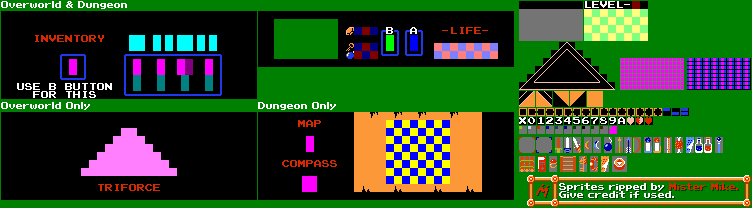
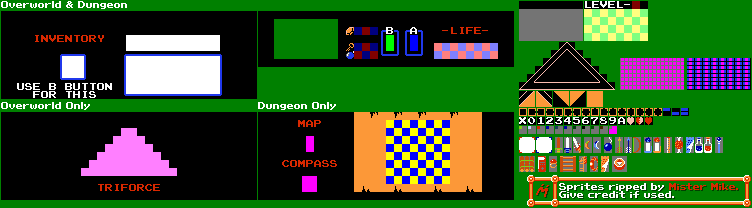
item selection menu finished

Changed region(s): [[0.1529, 0.1442, 0.3059, 0.4615], [0.0612, 0.2596, 0.1223, 0.375], [0.6729, 0.6635, 0.734, 0.75]]

diff --git a/GameStateMenu/ItemSelectionMenu.cs b/GameStateMenu/ItemSelectionMenu.cs
@@ -9,22 +9,26 @@ using System.Linq;
 using System.Xml.Linq;
 using SprintZero1.InventoryFiles;
 using SprintZero1.XMLParsers;
+using System.Diagnostics;
 
 namespace SprintZero1.GameStateMenu
 {
     internal class ItemSelectionMenu : GameStateAbstract
     {
         private double elapsedTime = 0;
-        private double interval = 0.5; // 0.5 seconds
+        private double interval = 0.3; // 0.3 seconds
         private bool toggle = false; // This will toggle between true and false
         private const int item_width = 16;
         private const int item_height = 16;
-        private const int PADDING = 10;
+        private const int WidthPADDING = 4;
+        private const int HeightPADDING = 2;
         private const float SCALE = 1f;
         private const float ROTATION = 0f;
         private const float LAYER_DEPTH = 0.01f;
-        private const float OVER_LAYER_DEPTH = 0.02f;
-        private const int ROWS = 2;
+        private const float OVER_LAYER_DEPTH = 0.1f;
+        private const int BACKGROUNDHEIGH = 88;
+        private const int INTERVAL_BETWEEN_BACKGROUND = 30;
+        private const int ROWS = 1;
         private readonly PlayerInventory _playerInventory;
         private  Rectangle ChooseRectFir;
         private  Rectangle ChooseRectSec;
@@ -32,14 +36,18 @@ namespace SprintZero1.GameStateMenu
         private Dictionary<EquipmentItem, Tuple<Rectangle, Vector2>> equipmentData;
         //private readonly ICombatEntity _player; //not sure whether need _player or not
         private  Texture2D largeTexture;
-        private  Texture2D itemChooseScrene;
+        private  Texture2D itemChooseScreen;
         private List<EquipmentItem> _playerEquipment;
         private EquipmentItem currentWeapon;
+        private Vector2 currentWeaponPosition =  new Vector2(63, 48);
+        private Rectangle currectWeaponRec;
         private Vector2 ChooseRecPosition;
+        private Rectangle topBackGround;
+        private Rectangle botBackGround;
 
         private void LoadItemData()
         {
-
+            equipmentData = new Dictionary<EquipmentItem, Tuple<Rectangle, Vector2>>();
             XDocument doc = XDocument.Load("ItemData.xml");
             var itemDataElement = doc.Element("ItemData");
             XDocTools _xDocTools = new XDocTools();
@@ -47,50 +55,66 @@ namespace SprintZero1.GameStateMenu
             ChooseRectFir = _xDocTools.CreateRectangle(ChooseRecFirRectElement);
             XElement ChooseRecSecRectElement = itemDataElement.Element("ChooseRecSecSprite");
             ChooseRectSec = _xDocTools.CreateRectangle(ChooseRecSecRectElement);
+            XElement topBackGroundElement = itemDataElement.Element("BackGroundFirst");
+            topBackGround = _xDocTools.CreateRectangle(topBackGroundElement);
+            XElement botBackGroundElement = itemDataElement.Element("BackGroundSecond");
+            botBackGround = _xDocTools.CreateRectangle(botBackGroundElement);
 
-            int itemCount = equipmentData.Count;
-            int itemsPerRow = (int)Math.Ceiling(itemCount / (double)ROWS);
-            int totalWidth = itemsPerRow * (item_width + PADDING) - PADDING;
-            int totalHeight = ROWS * (item_height + PADDING) - PADDING;
+            int boxX = 120;
+            int boxY = 47;
+            int boxWidth = 90;
+            int boxHeight = 33;
 
-            int startX = (WIDTH - totalWidth) / 2;
-            int startY = (HEIGHT - totalHeight) / 2;
-
+            int itemsPerRow = 4;
+            int startX = boxX + (boxWidth - (itemsPerRow * item_width + (itemsPerRow - 1) * HeightPADDING)) / 2;
             int x = startX;
-            int y = startY;
+            int y = boxY + (boxHeight / ROWS - item_height) / 2;
 
             int count = 0;
-
             foreach (XElement itemElement in itemDataElement.Elements("Item"))
             {
+                Debug.WriteLine(itemElement);
                 Rectangle itemRec = _xDocTools.CreateRectangle(itemElement);
                 EquipmentItem equipmentItem = _xDocTools.ParseAttributeAsEquipmentItem(itemElement, "name");
 
-                Vector2 position = new Vector2(x, y);
-                equipmentData[equipmentItem] = new Tuple<Rectangle, Vector2>(itemRec, position);
+                Debug.WriteLine(equipmentItem);
 
-                x += item_width + PADDING;
+                if (count > 0)
+                {
+                    x += item_width + WidthPADDING;
+                }
                 count++;
 
-                if (count == itemsPerRow)
+                Vector2 position = new Vector2(x, y);
+                equipmentData.Add(equipmentItem, new Tuple<Rectangle, Vector2>(itemRec, position));
+            }
+            foreach (XElement betterItemElement in itemDataElement.Elements("BetterItem"))
+            {
+                EquipmentItem betterEquipmentItem = _xDocTools.ParseAttributeAsEquipmentItem(betterItemElement, "name");
+
+                string baseItemName = betterEquipmentItem.ToString().Replace("Better", "");
+
+                EquipmentItem baseEquipmentItem = equipmentData.Keys
+                    .SingleOrDefault(item => item.ToString() == baseItemName);
+
+                if (!baseEquipmentItem.Equals(default(EquipmentItem)) && !baseEquipmentItem.Equals(EquipmentItem.WoodenSword))
                 {
-                    count = 0;
-                    x = startX;
-                    y += item_height + PADDING;
+                    Rectangle betterItemRec = _xDocTools.CreateRectangle(betterItemElement);
+                    Vector2 basePosition = equipmentData[baseEquipmentItem].Item2;
+                    equipmentData.Add(betterEquipmentItem, new Tuple<Rectangle, Vector2>(betterItemRec, basePosition));
                 }
             }
-        }
 
-        public ItemSelectionMenu(Game1 game, PlayerInventory playerInventory):base(game)
+
+        }
+        public ItemSelectionMenu(Game1 game, PlayerInventory playerInventory) :base(game)
         {
-            
-            _overlay.SetData(new[] { Color.Blue });
+            _overlay.SetData(new[] { Color.Black });
             _playerInventory = playerInventory;
             largeTexture = Texture2DManager.GetItemSpriteSheet();
-            itemChooseScrene = Texture2DManager.GetPauseScreneSheet();
+            itemChooseScreen = Texture2DManager.GetPauseScreenSheet();
             _font = Texture2DManager.GetSpriteFont("PauseSetting");
             #region Equipment Data Initialization
-            equipmentData = new Dictionary<EquipmentItem, Tuple<Rectangle, Vector2>>();
             LoadItemData();
             #endregion
             _playerEquipment = _playerInventory.GetEquipmentList();
@@ -100,11 +124,21 @@ namespace SprintZero1.GameStateMenu
 
         }
 
+
         public override void Update(GameTime gameTime)
         {
             SynchronizeInventory();
             updateChooseRecPosition();
-            updateChooseRecPosition();
+            SetCurrectWeaponRec();
+            AnimateChooseRec(gameTime);
+        }
+
+        private void SetCurrectWeaponRec()
+        {
+            if (equipmentData.TryGetValue(currentWeapon, out Tuple<Rectangle, Vector2> equipmentInfo))
+            {
+                currectWeaponRec = equipmentInfo.Item1;
+            }
         }
 
         private void SynchronizeInventory()
@@ -146,14 +180,19 @@ namespace SprintZero1.GameStateMenu
             }
             else
             {
-                throw new KeyNotFoundException("The currentWeapon does not exist in the equipment data.");
+                var availableKeys = string.Join(", ", equipmentData.Keys.Select(k => k.ToString()));
+                System.Diagnostics.Debug.WriteLine($"Available keys: {availableKeys}");
+                System.Diagnostics.Debug.WriteLine($"Current weapon: {currentWeapon}");
+                throw new KeyNotFoundException($"The currentWeapon '{currentWeapon}' does not exist in the equipment data. Available keys: {availableKeys}");
             }
         }
 
 
         public override void Draw(SpriteBatch spriteBatch)
         {
-           // spriteBatch.Draw(_overlay, new Rectangle(0, 0, WIDTH, HEIGHT), null, Color.White, 0f, Vector2.Zero, SpriteEffects.None, OVER_LAYER_DEPTH);
+            spriteBatch.Draw(_overlay, new Rectangle(0, 0, WIDTH, HEIGHT), null, Color.White, 0f, Vector2.Zero, SpriteEffects.None, OVER_LAYER_DEPTH);
+            spriteBatch.Draw(largeTexture, currentWeaponPosition, currectWeaponRec, Color.White, 0, Vector2.Zero, SCALE, SpriteEffects.None, 0f);
+            DrawbackGround(spriteBatch);
             DrawDifferentItem(spriteBatch);
             DrawChooseRec(spriteBatch);
 
@@ -161,7 +200,30 @@ namespace SprintZero1.GameStateMenu
 
         private void DrawChooseRec(SpriteBatch spriteBatch)
         {
-            spriteBatch.Draw(itemChooseScrene, ChooseRecPosition, ChooseRect, Color.White, ROTATION, Vector2.Zero, SCALE, SpriteEffects.None, 0f);
+            Debug.WriteLine(ChooseRecPosition);
+            spriteBatch.Draw(itemChooseScreen, ChooseRecPosition, ChooseRect, Color.White, 0, Vector2.Zero, SCALE, SpriteEffects.None, 0f);
+        }
+        private void DrawbackGround(SpriteBatch spriteBatch)
+        {
+            spriteBatch.Draw(
+                itemChooseScreen,
+                destinationRectangle:  new Rectangle(0, 0, WIDTH, BACKGROUNDHEIGH),
+                sourceRectangle: topBackGround,
+                color: Color.White,
+                rotation: 0f,
+                origin: Vector2.Zero,
+                effects: SpriteEffects.None,
+                layerDepth: 0.05f);
+
+            spriteBatch.Draw(
+                itemChooseScreen,
+                destinationRectangle: new Rectangle(0, BACKGROUNDHEIGH + INTERVAL_BETWEEN_BACKGROUND, WIDTH, BACKGROUNDHEIGH),
+                sourceRectangle: botBackGround,
+                color: Color.White,
+                rotation: 0f,
+                origin: Vector2.Zero,
+                effects: SpriteEffects.None,
+                layerDepth: 0.05f);
         }
 
         private void DrawDifferentItem(SpriteBatch spriteBatch)
@@ -180,7 +242,8 @@ namespace SprintZero1.GameStateMenu
                 }
 
             }
-            
+
+
         }
 
     }

diff --git a/Managers/Texture2DManager.cs b/Managers/Texture2DManager.cs
@@ -17,7 +17,7 @@ namespace SprintZero1.Managers
         private static Texture2D _level1FloorSpriteSheet;
         private static Texture2D _itemSpriteSheet;
         private static Texture2D _weaponSpriteSheet;
-        private static Texture2D _PauseScrenSheet;
+        private static Texture2D _PauseScreenSheet;
         /* for update */
         private static Dictionary<string, SpriteFont> spriteFontMap = new Dictionary<string, SpriteFont>();
 
@@ -34,7 +34,7 @@ namespace SprintZero1.Managers
             _level1FloorSpriteSheet = contentManager.Load<Texture2D>("level1");
             _weaponSpriteSheet = contentManager.Load<Texture2D>("LinkSheet");
             _itemSpriteSheet = contentManager.Load<Texture2D>("itemSpriteSheet1");
-            _PauseScrenSheet = contentManager.Load<Texture2D>("NES_-_The_Legend_of_Zelda_-_HUD__Pause_Screen1");
+            _PauseScreenSheet = contentManager.Load<Texture2D>("NES_-_The_Legend_of_Zelda_-_HUD__Pause_Screen1");
         }
 
         public static void LoadSpriteFonts(ContentManager contentManager)
@@ -84,7 +84,7 @@ namespace SprintZero1.Managers
         /// Get the PauseScren sheet 
         /// </summary>
         /// <returns></returns>
-        public static Texture2D GetPauseScreneSheet() { return _PauseScrenSheet; }
+        public static Texture2D GetPauseScreenSheet() { return _PauseScreenSheet; }
 
         public static SpriteFont GetSpriteFont(string spriteFontName)
         {

diff --git a/Factories/EnemySpriteFactory.cs b/Factories/EnemySpriteFactory.cs
@@ -55,13 +55,13 @@ namespace SprintZero1.Factories
                             { Direction.East, new List<Rectangle> { new Rectangle(257, 11, 13, 16), new Rectangle(275, 11, 14, 16) } }
                         }
 
-                        "dungeon_goriya", new Dictionary<Direction, List<Rectangle>>
+                        /*"dungeon_goriya", new Dictionary<Direction, List<Rectangle>>
                         {
                             { Direction.North, new List<Rectangle> { new Rectangle(241, 11, 13, 16), new Rectangle(308, 11, 13, 16) } },
                             { Direction.South, new List<Rectangle> { new Rectangle(224, 11, 13, 16), new Rectangle(292, 11, 13, 16) } },
                             { Direction.West, new List<Rectangle> { new Rectangle(257, 11, 13, 16), new Rectangle(275, 11, 14, 16) } },
                             { Direction.East, new List<Rectangle> { new Rectangle(257, 11, 13, 16), new Rectangle(275, 11, 14, 16) } }
-                        }
+                        }*/
                     }
                     
                 };

diff --git a/GameStateMenu/GameStateAbstract.cs b/GameStateMenu/GameStateAbstract.cs
@@ -13,13 +13,15 @@ namespace SprintZero1.GameStateMenu
         protected SpriteFont _font;
         protected Texture2D _overlay;
         protected GraphicsDeviceManager graphics;
-        protected const int WIDTH = 256;
-        protected const int HEIGHT = 256;
+        protected const int WIDTH = 255;
+        protected const int HEIGHT = 240;
+        protected GraphicsDevice _GraphicsDevice;
 
         public GameStateAbstract(Game1 game)
         {
             graphics = game.Graphics;
-            _overlay = new Texture2D(game.GraphicsDevice, 1, 1);
+            _GraphicsDevice = game.GraphicsDevice;
+            _overlay = new Texture2D(_GraphicsDevice, 1, 1);
         }
 
         public abstract void Update(GameTime gameTime);

diff --git a/StatePatterns/GameStatePatterns/GamePausedState.cs b/StatePatterns/GameStatePatterns/GamePausedState.cs
@@ -11,7 +11,7 @@ namespace SprintZero1.StatePatterns.GameStatePatterns
         private IGameStateMenu pauseGame;
         public GamePausedState(Game1 game) : base(game)
         {
-            pauseGame = new GameOverMenu(game);
+            pauseGame = new PauseMenu(game);
 
         }
 
